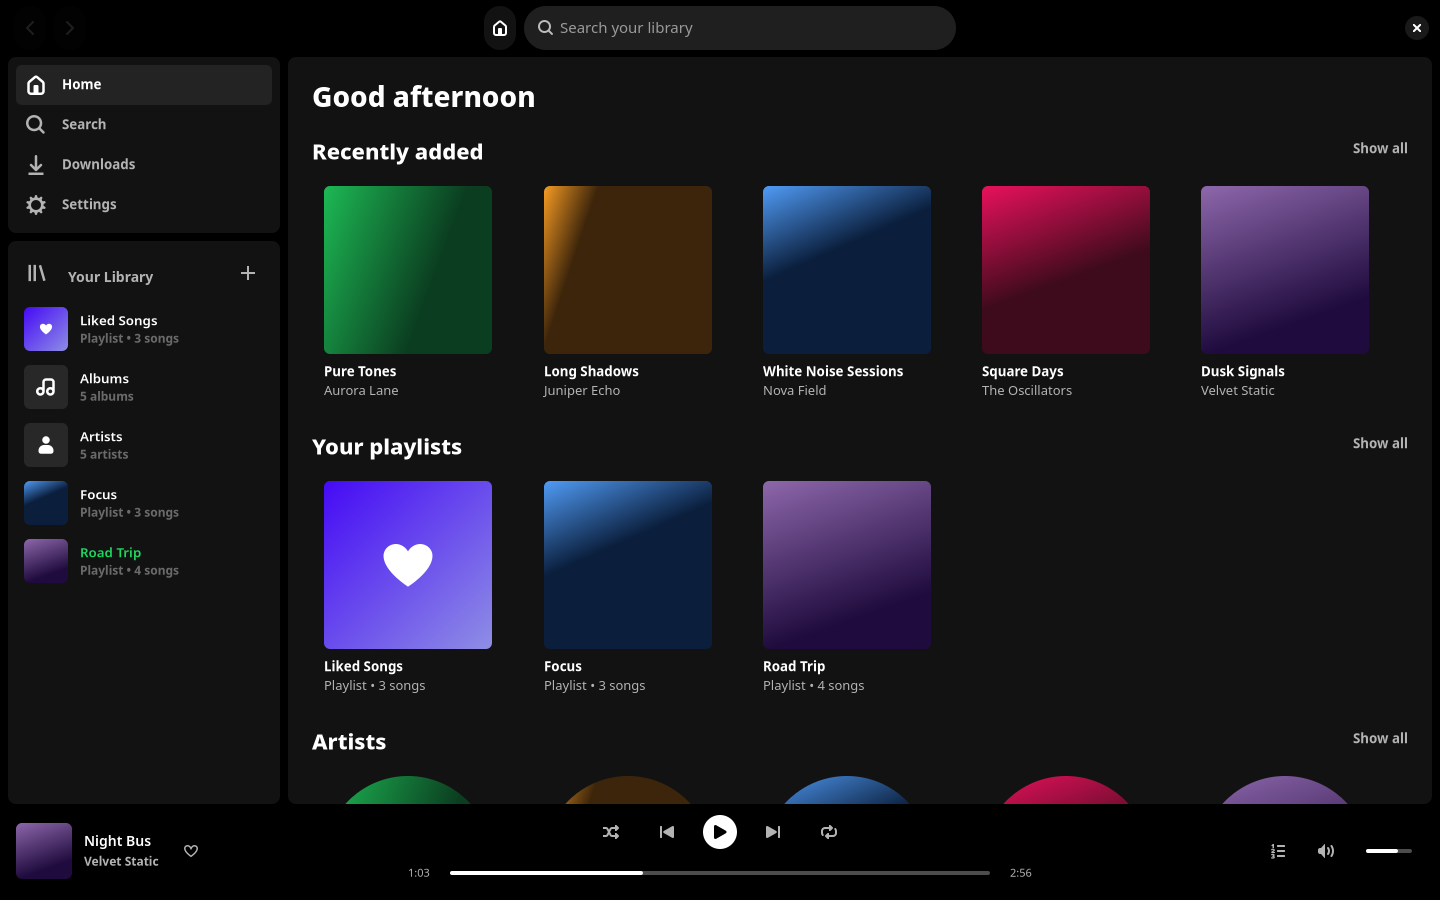
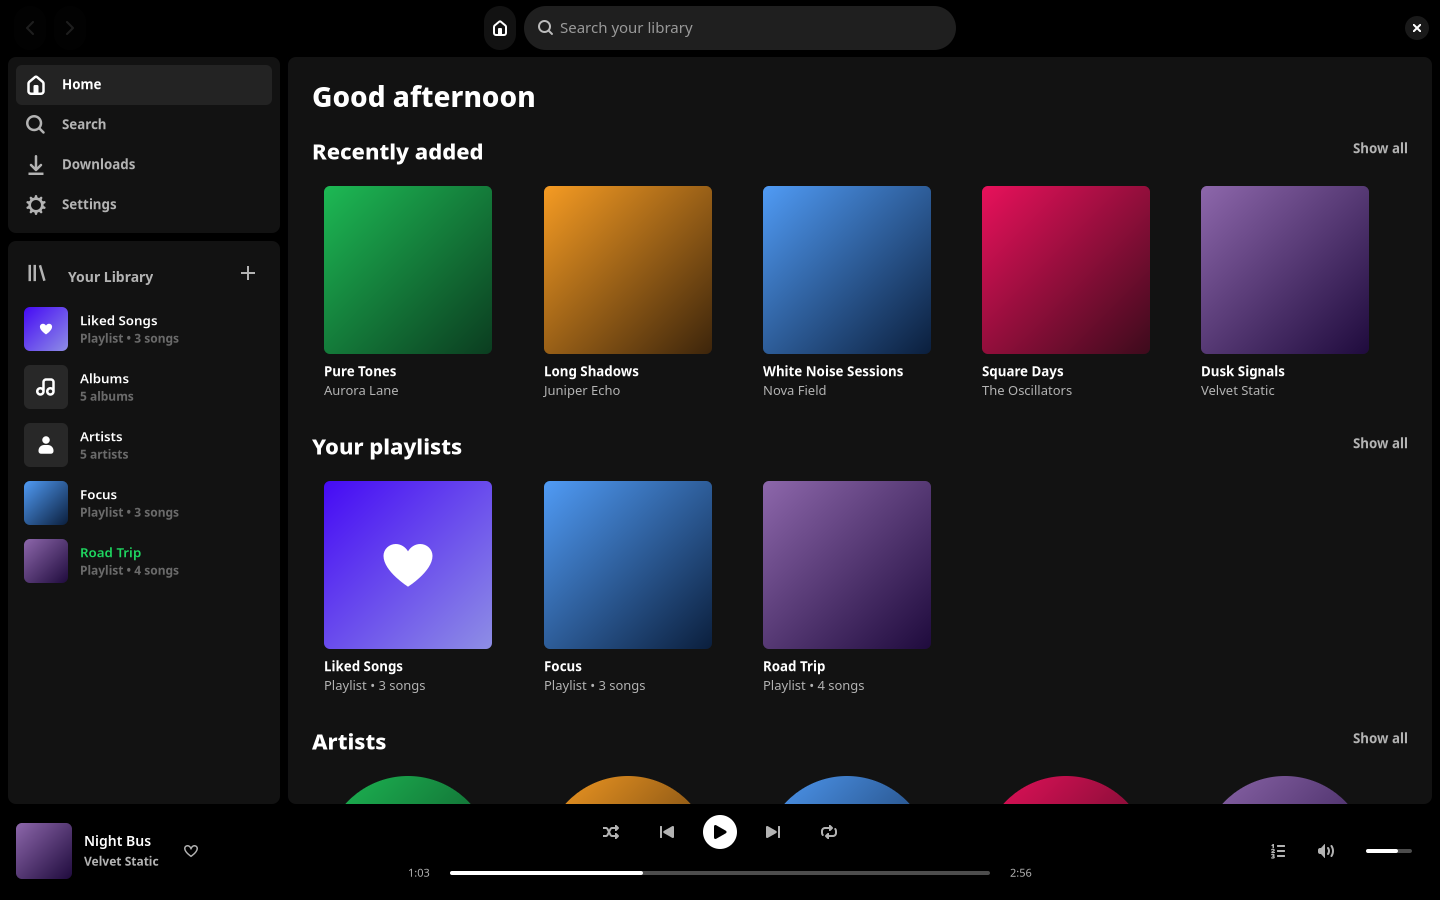
Screenshots: nothing left running, a clear error, the same pictures twice
- screenshots.sh runs inside.sh as PID 1 of its own PID namespace
  (unshare --pid --fork --kill-child), so whatever it started ends with
  it; inside.sh also stops Syncthing and prints the logs from an EXIT
  trap, with INT and TERM traps. When the throwaway Syncthing's API does
  not answer within 20 s it says so instead of exiting with curl's code.
- Fixed cover gradients: the end point lies inside the frame and the
  seed is set (ffmpeg's gradients source picked random ones before).
- The app's wall clock is 2026-10-19 14:30 UTC (faketime; the monotonic
  clock and file times stay real), and the requests use that time.
- Syncthing uses a throwaway key kept with the script, so the device ID
  and QR code are the same on every run.

Two runs on one host now give byte-identical PNGs. The four pictures are
retaken with this script.

diff --git a/linux/README.md b/linux/README.md
@@ -122,14 +122,20 @@ real leak. For symbol names set `ASAN_SYMBOLIZER_PATH` to
 generates a library of sine and noise tracks with placeholder names, its
 download requests and a downloader heartbeat, and a throwaway Syncthing
 that shares it, then runs `gui_tests::screenshots` in a private headless
-sway and saves the output with grim. It runs in user, mount, UTS and
+sway and saves the output with grim. It runs in user, mount, UTS, PID and
 network namespaces (home shown as `/home/user`, host name `desktop-pc`, no
-network), so it touches neither your library nor your Syncthing:
+network, nothing left running afterwards), so it touches neither your
+library nor your Syncthing. Two runs give the same pictures: the covers
+are fixed gradients, the app's clock is set to 2026-10-19 14:30 UTC with
+faketime, and Syncthing uses the throwaway key in
+`crates/spotless/scripts/screenshots-syncthing/`. The tools must come from
+the Nix store, as below: `/home` is hidden inside the namespaces.
 
 ```sh
 # from the repository root, through heavy on a shared machine (--mem 6G)
 nix develop -c nix shell --inputs-from . nixpkgs#sway nixpkgs#grim nixpkgs#dbus \
-  nixpkgs#syncthing nixpkgs#ffmpeg nixpkgs#curl nixpkgs#iproute2 nixpkgs#util-linux -c \
+  nixpkgs#syncthing nixpkgs#ffmpeg nixpkgs#curl nixpkgs#iproute2 nixpkgs#util-linux \
+  nixpkgs#libfaketime -c \
   linux/crates/spotless/scripts/screenshots.sh   # or: ... screenshots.sh <out-dir>
 ```
 

diff --git a/linux/crates/spotless/scripts/screenshots-syncthing/README.md b/linux/crates/spotless/scripts/screenshots-syncthing/README.md
@@ -1,0 +1,4 @@
+A throwaway Syncthing key and certificate, made with `syncthing generate`
+for `screenshots.sh` only. They give its Syncthing, which runs without a
+network, the same device ID (and the setup picture the same QR code) on
+every run. Never use them for a real device.
